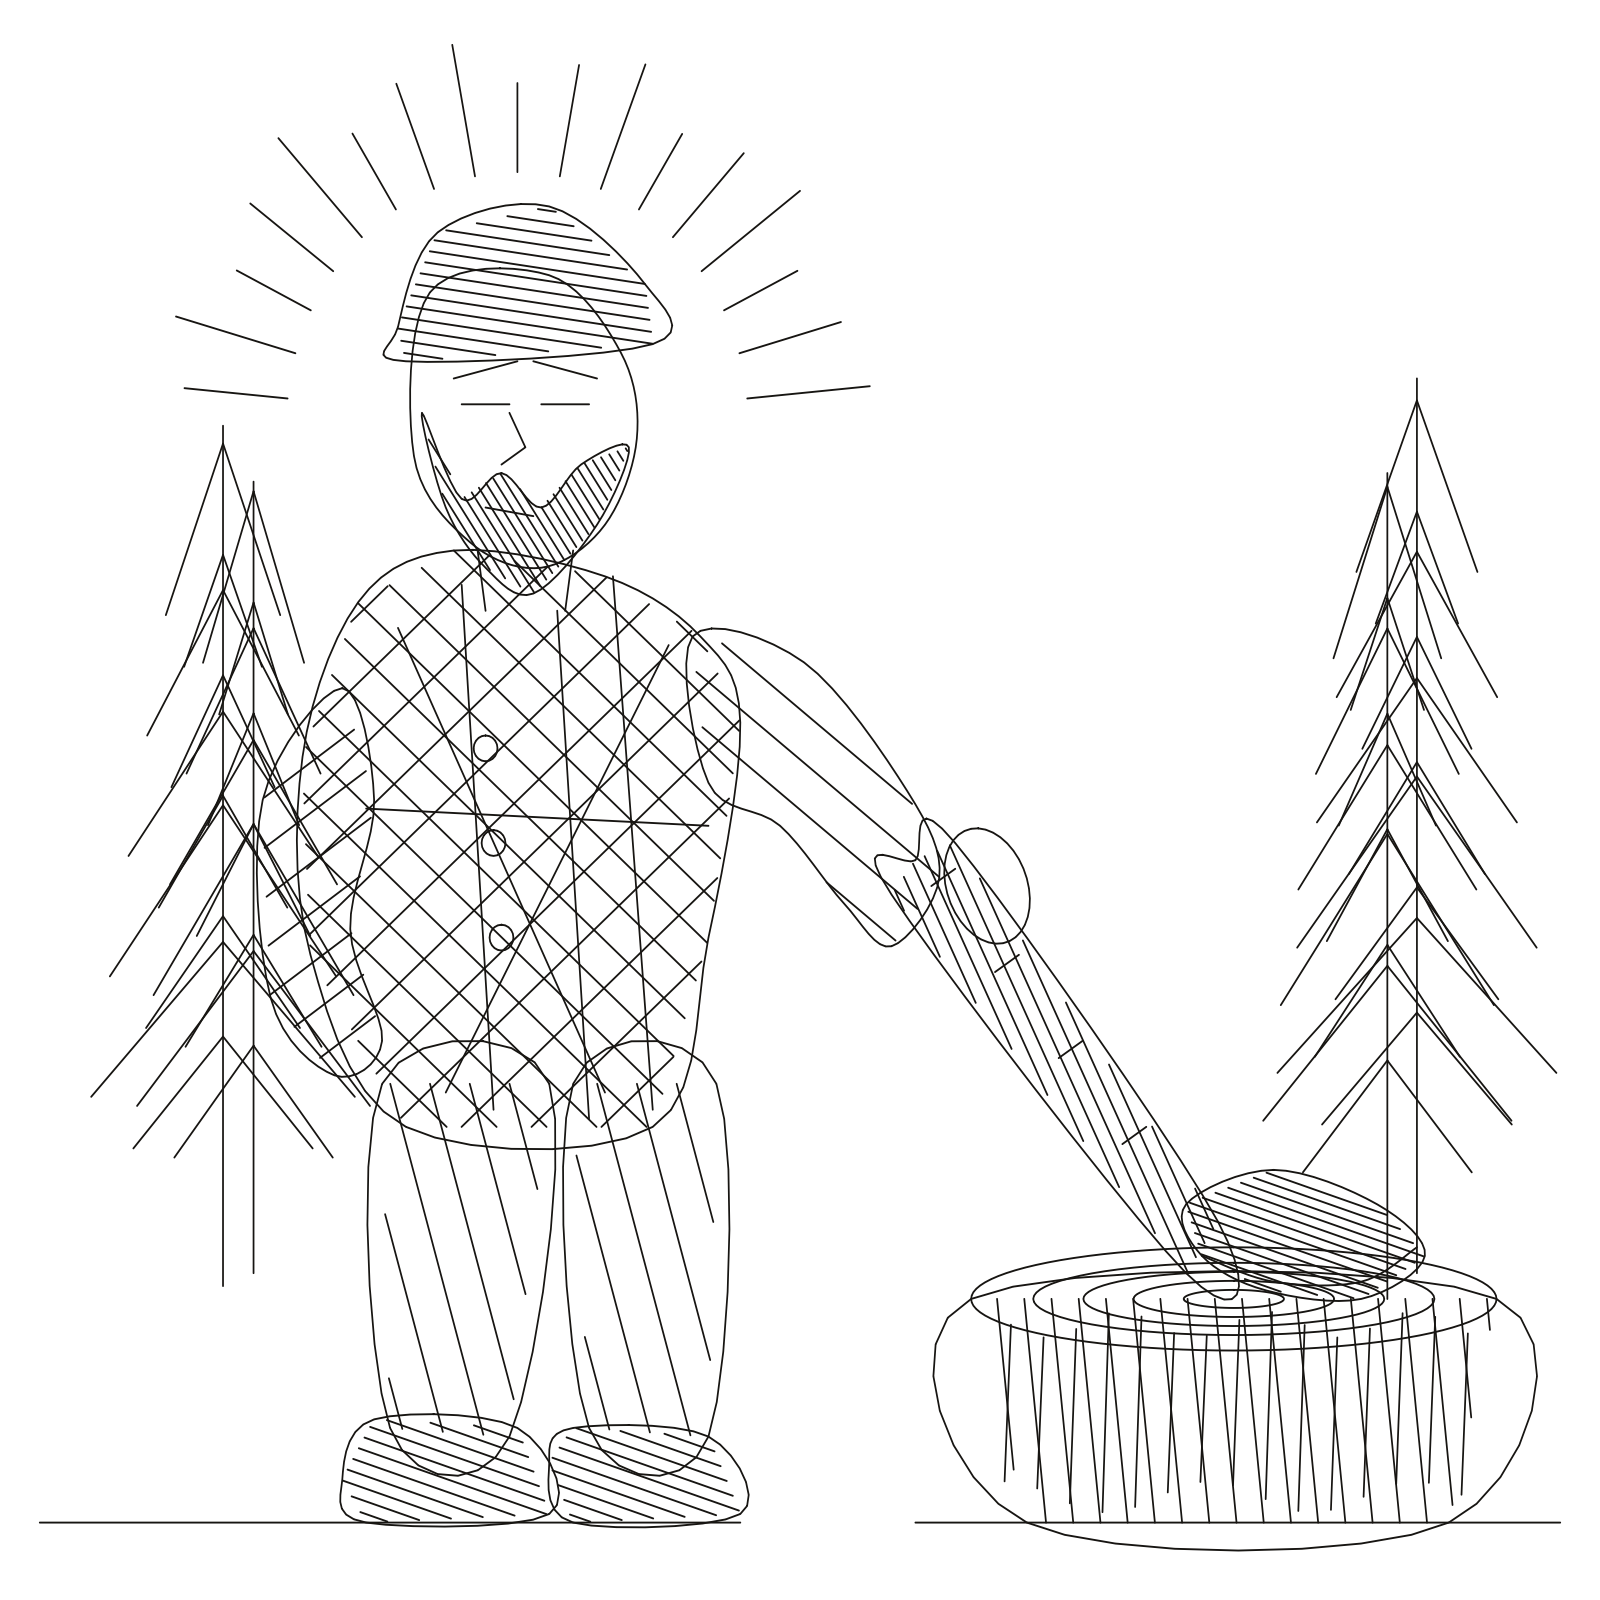
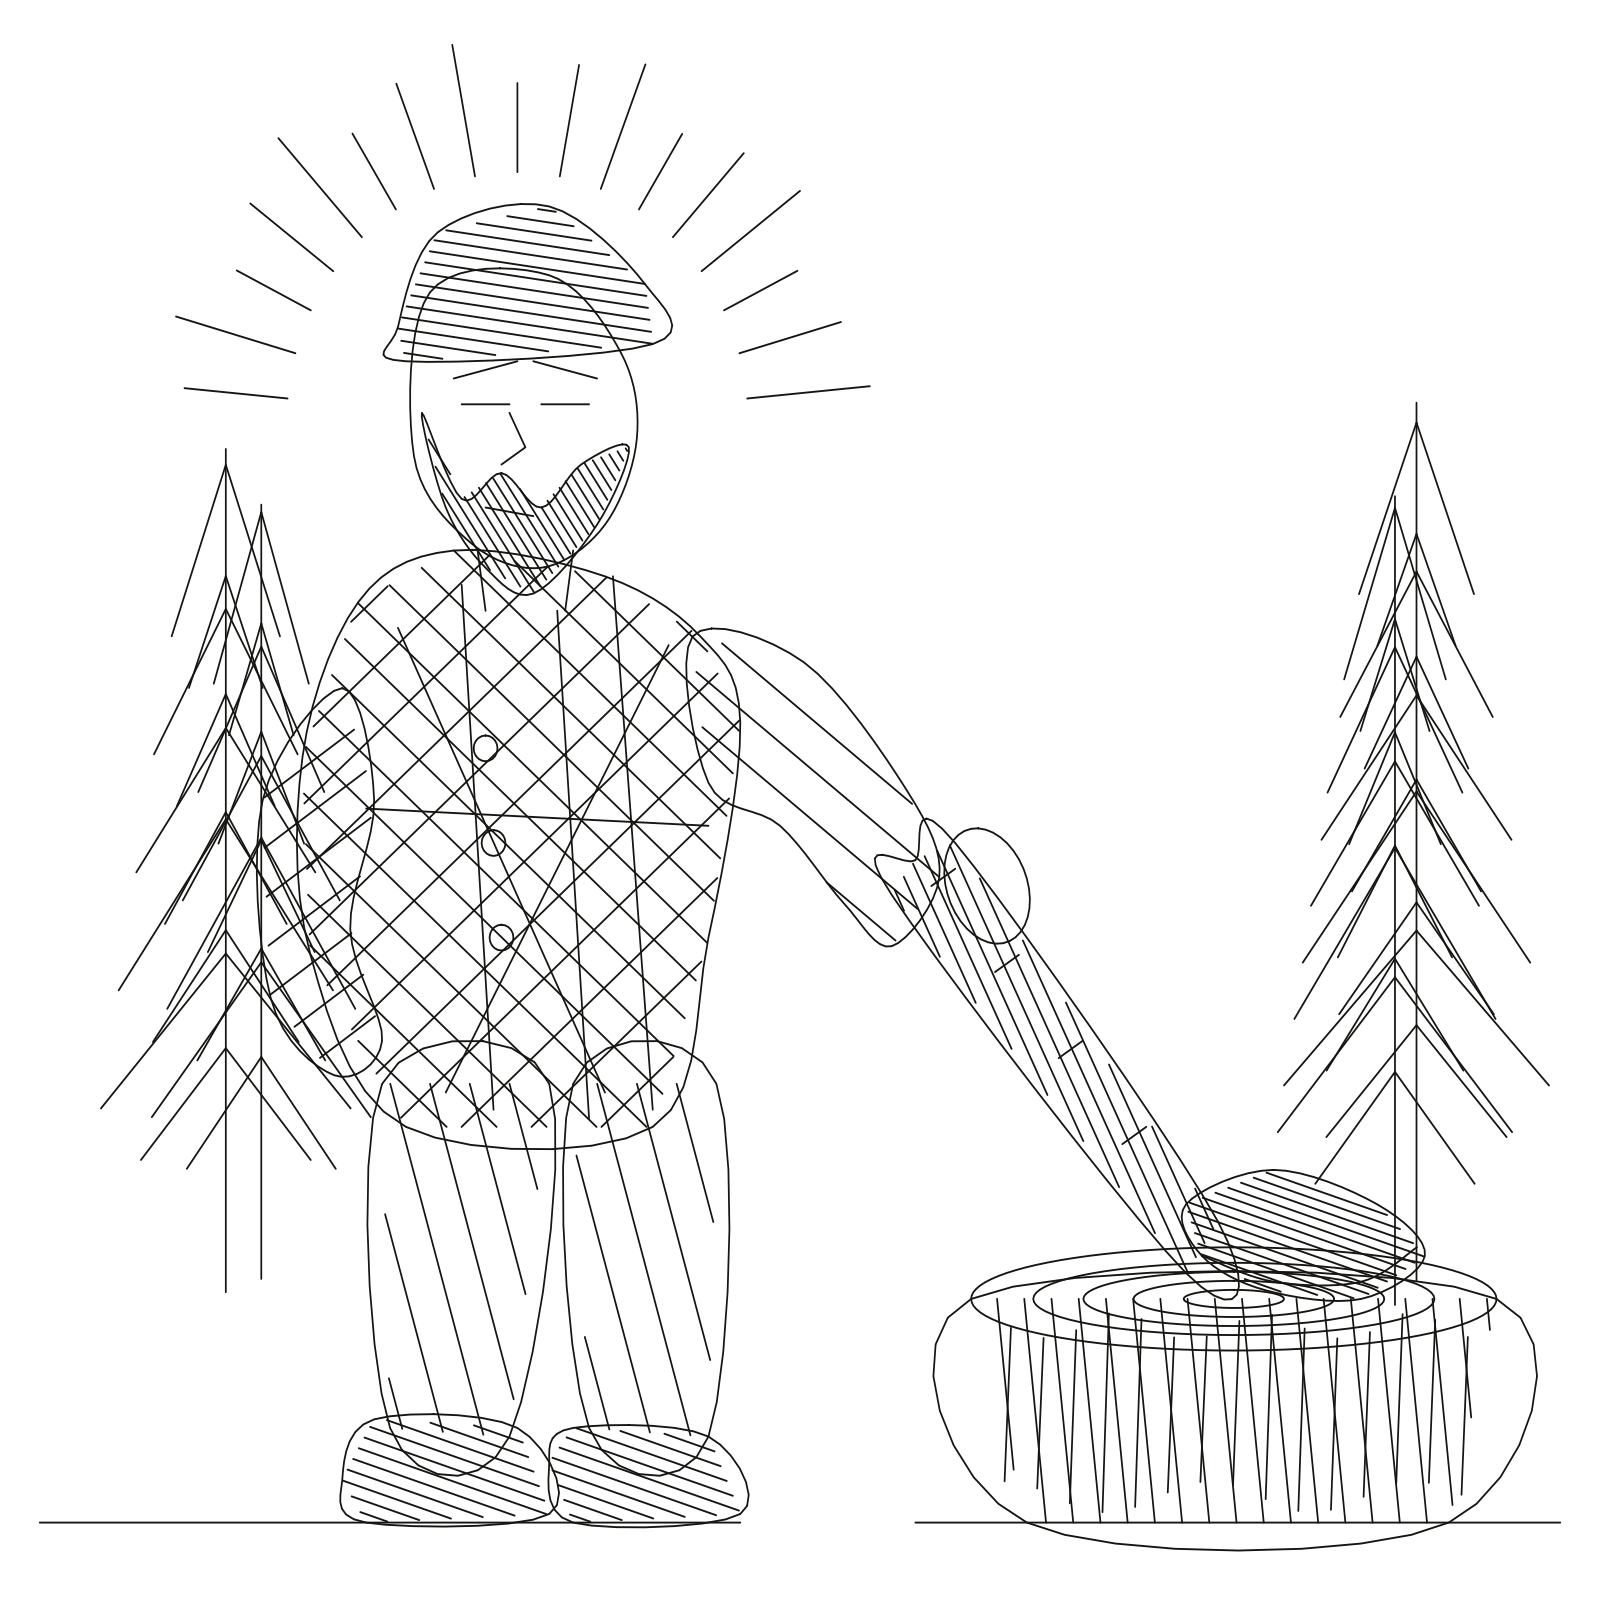
fix: seed Ironwood background variation

Changed region(s): [[0.0625, 0.2812, 0.2188, 0.7812], [0.8125, 0.25, 0.9375, 0.7188], [0.9375, 0.5625, 0.9688, 0.5938]]

diff --git a/samples/turtletoy/ironwood.js b/samples/turtletoy/ironwood.js
@@ -164,11 +164,11 @@ const blockFace = [[22, 50], [88, 50], [82, 76], [29, 76]];
 
 // Background: a restrained treeline and a rising-sun crown.
 for (let i = 0; i < backgroundTrees; i++) {
-    const x = i % 2
+    const x = (i % 2
         ? -70 - 2 * Math.sin(i * 1.7)
-        : 76 + 2 * Math.cos(i * 1.3);
-    const y = 47 + (i % 3) * 1.5;
-    pineTree(x, y, 104 - i * 4, 20 - i * 1.1, 5);
+        : 76 + 2 * Math.cos(i * 1.3)) + 2.5 * (random() - 0.5);
+    const y = 47 + (i % 3) * 1.5 + random();
+    pineTree(x, y, 102 - i * 4, 19 - i * 1.1, 5);
 }
 for (let i = 0; i < 17; i++) {
     const angle = Math.PI + Math.PI * (i + 0.5) / 17;
@@ -191,7 +191,7 @@ for (let ring = 1; ring <= 4; ring++) {
 hatchPolygon(blockFace, woodDensity, 84, 1.2);
 for (let i = 0; i < 15; i++) {
     const x = 27 + i * 4.1;
-    const y0 = 53 + 1.5 * Math.sin(i * 1.4);
+    const y0 = 53 + 1.5 * Math.sin(i * 1.4) + 0.5 * random();
     add([[x, y0], [x - 0.8, 73 - 1.8 * Math.cos(i)]]);
 }
 
